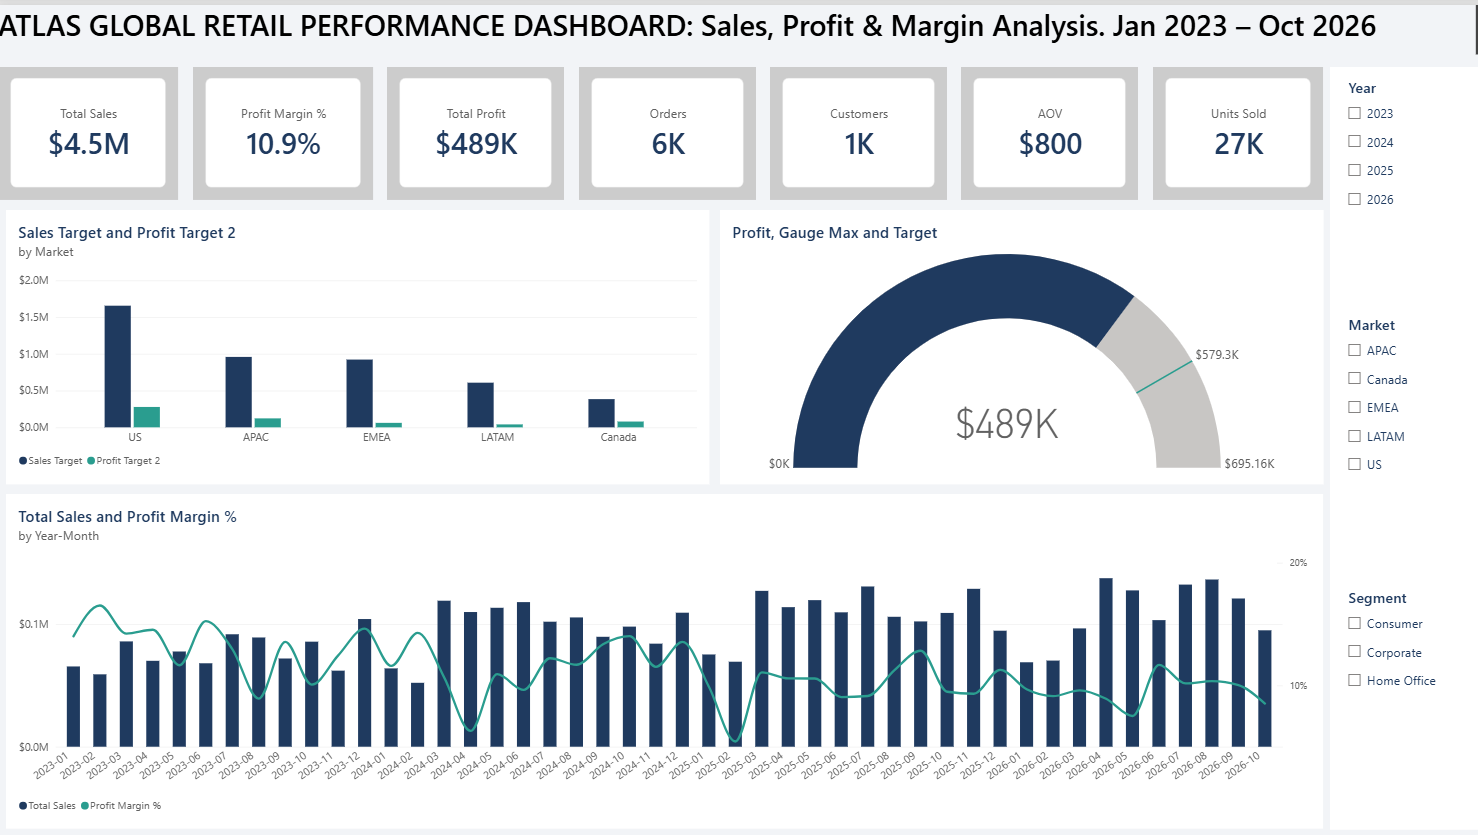
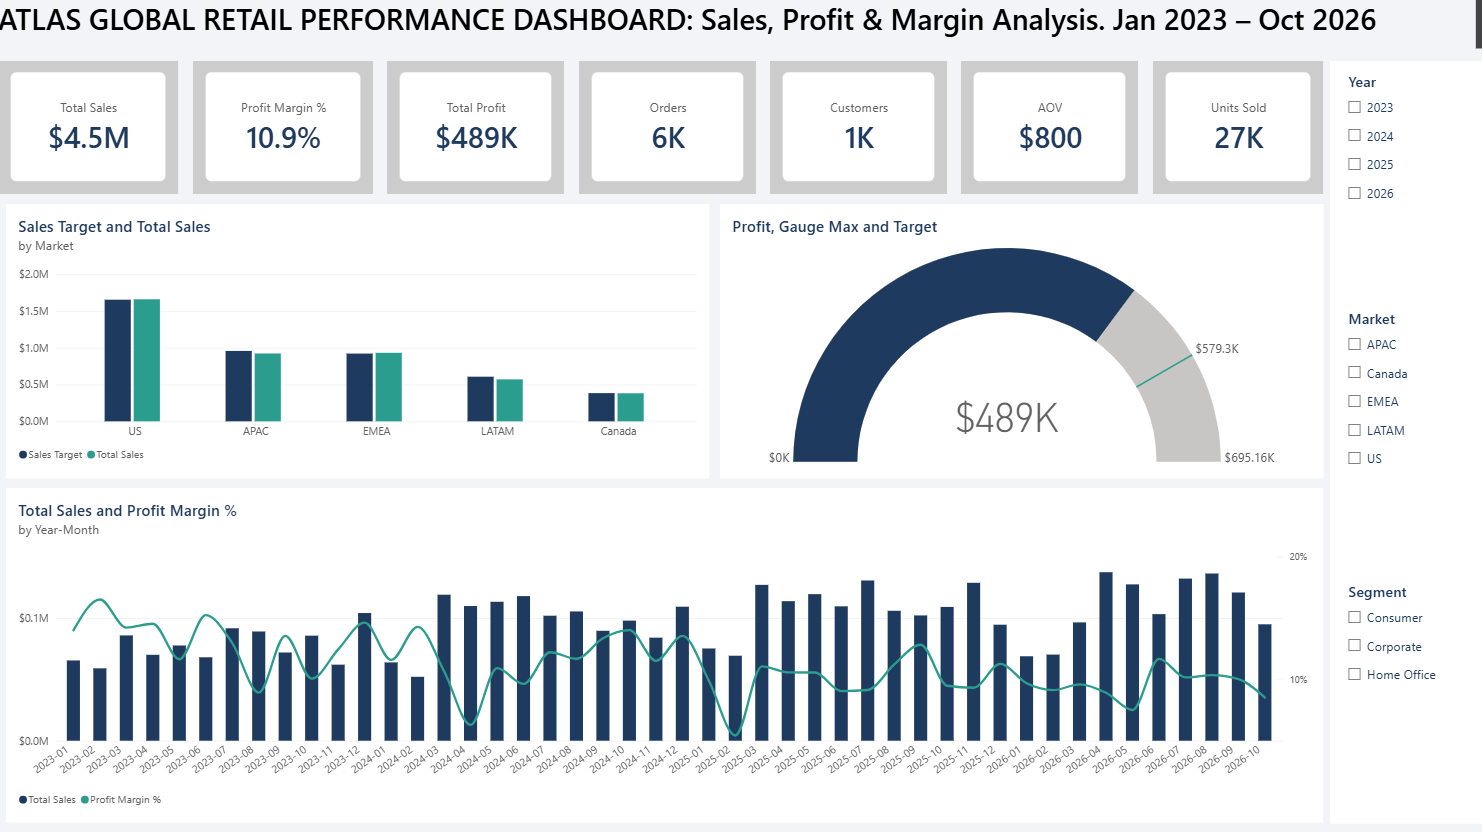
Final report: sales vs target chart fixed, update README

diff --git a/README.md b/README.md
@@ -19,7 +19,7 @@ A four-page report that moves from *how are we doing* to *where is the money lea
 ### Page 1: Executive Overview
 ![Executive Overview](images/page1-executive-overview.png)
 
-**$4.5M sales, $488.8K profit, 10.9% margin** across about 6K orders and 1K customers (Jan 2023 to Oct 2026), with Year, Market and Segment slicers. Monthly sales are plotted in date order against profit margin, which shows Q4 sales peaks and a margin that has drifted from the mid-teens in 2023 towards 10%. A gauge shows **profit of $488.8K against a target of $579.3K, about 84% of target**, and a chart breaks the sales target down by market.
+**$4.5M sales, $488.8K profit, 10.9% margin** across about 6K orders and 1K customers (Jan 2023 to Oct 2026), with Year, Market and Segment slicers. Monthly sales are plotted in date order against profit margin, which shows Q4 sales peaks and a margin that has drifted from the mid-teens in 2023 towards 10%. A gauge shows **profit of $488.8K against a target of $579.3K, about 84% of target**, and a chart compares sales with target by market: **sales are within about 1% of target overall, so the shortfall is in profit, not in sales volume.**
 
 ### Page 2: Where Profit Is Made and Lost
 ![Where Profit Is Made and Lost](images/page2-where-profit-is-made-and-lost.png)
